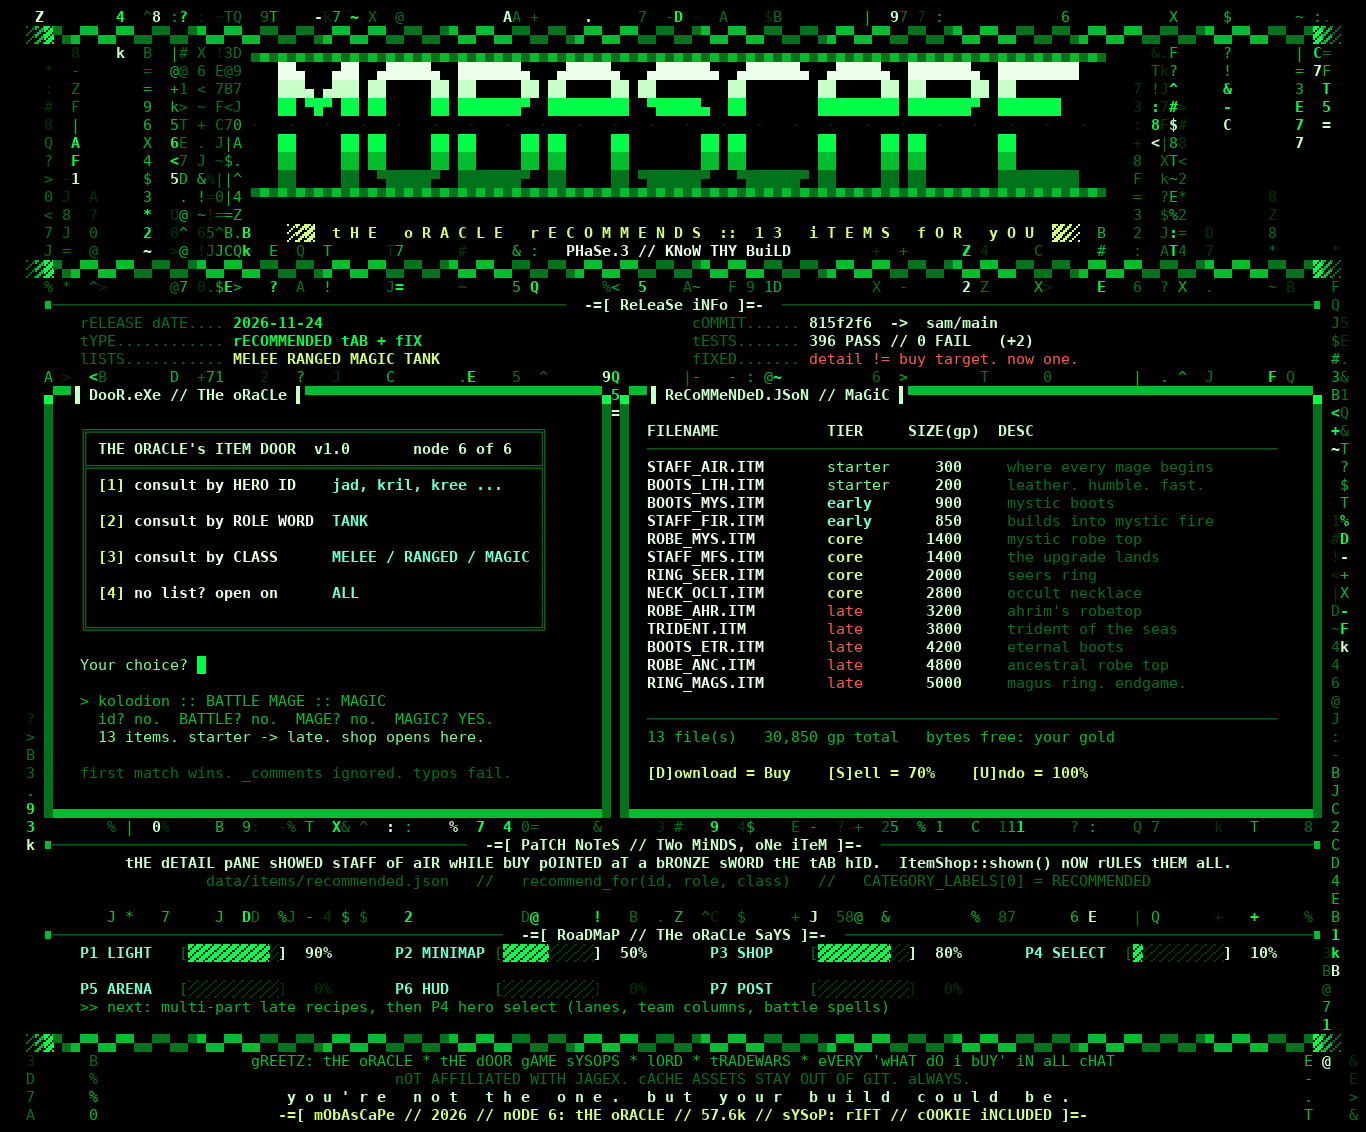
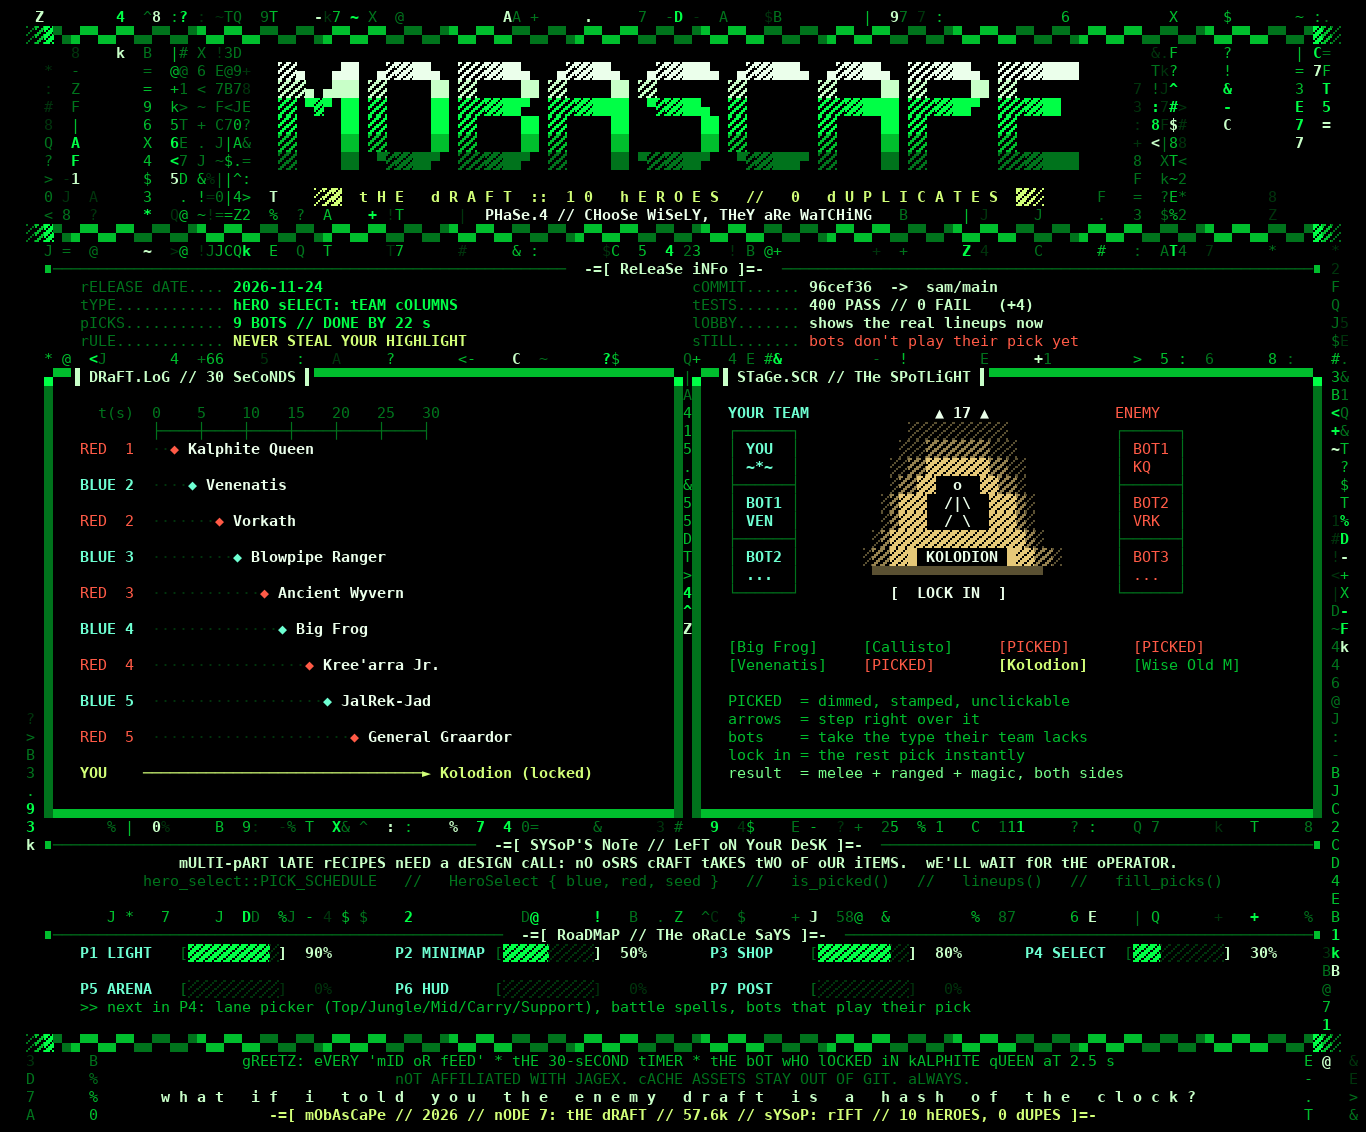
docs: progress matrix, draft edition

diff --git a/tools/matrix_bbs.py b/tools/matrix_bbs.py
@@ -147,114 +147,124 @@ def logo(y, word):
 
 
 # ============================================================================
-def stencil_logo(y, word):
-    """Stencil logo: letters cut by a horizontal gap at mid-height and
-    framed top and bottom with ▄▀ rails, like a BBS sysop's door banner."""
+def shaded_logo(y, word):
+    """Logo shaded left-to-right with the four block densities, the
+    classic ░▒▓█ ramp, so each letter fades in from the dark."""
     width = len(word) * 10 - 1
     x0 = (W - width) // 2
-    clear(x0 - 4, y - 2, x0 + width + 4, y + LOGO_ROWS + 2)
-    for x in range(x0 - 3, x0 + width + 3):
-        put(x, y - 1, "▄", DIM if x % 2 else MID)
-        put(x, y + LOGO_ROWS + 1, "▀", DIM if x % 2 else MID)
+    clear(x0 - 3, y - 1, x0 + width + 3, y + LOGO_ROWS)
+    ramp = "░▒▓█"
     for i, letter in enumerate(word):
         for r in range(LOGO_ROWS):
             for c, px in enumerate(LOGO[letter][r]):
                 if px == " ":
                     continue
-                row = r if r < 3 else r + 1
-                put(x0 + i * 10 + c, y + row, px, LOGO_GRAD[min(r, len(LOGO_GRAD) - 1)])
-    for x in range(x0 - 3, x0 + width + 3, 4):
-        put(x, y + 3, "·", FAINT)
+                ch = px if px in "▀▄" else ramp[min(3, c * 4 // 9 + 1)]
+                put(x0 + i * 10 + c, y + r, ch, LOGO_GRAD[r])
 
 
-stencil_logo(3, "MOBASCAPE")
+shaded_logo(3, "MOBASCAPE")
 fade_bar(1, 2, W - 3)
-center(12, "  ░▒▓  t H E   o R A C L E   r E C O M M E N D S  ::  1 3   i T E M S   f O R   y O U  ▓▒░  ", AMBER)
-center(13, "  " + elite("phase.3 // know thy build") + "  ", WHITE)
-fade_bar(14, 2, W - 3)
+center(10, "  ░▒▓  t H E   d R A F T  ::  1 0   h E R O E S   //   0   d U P L I C A T E S  ▓▒░  ", AMBER)
+center(11, "  " + elite("phase.4 // choose wisely, they are watching") + "  ", WHITE)
+fade_bar(12, 2, W - 3)
 
 # --- release info -------------------------------------------------------------
-header(16, elite("release info"))
-clear(4, 17, W - 5, 19)
+header(14, elite("release info"))
+clear(4, 15, W - 5, 18)
 info = [
-    ("rELEASE dATE", "2026-11-24", "cOMMIT", "815f2f6  ->  sam/main"),
-    ("tYPE", "rECOMMENDED tAB + fIX", "tESTS", "396 PASS // 0 FAIL   (+2)"),
-    ("lISTS", "MELEE RANGED MAGIC TANK", "fIXED", "detail != buy target. now one."),
+    ("rELEASE dATE", "2026-11-24", "cOMMIT", "96cef36  ->  sam/main"),
+    ("tYPE", "hERO sELECT: tEAM cOLUMNS", "tESTS", "400 PASS // 0 FAIL   (+4)"),
+    ("pICKS", "9 BOTS // DONE BY 22 s", "lOBBY", "shows the real lineups now"),
+    ("rULE", "NEVER STEAL YOUR HIGHLIGHT", "sTILL", "bots don't play their pick yet"),
 ]
 for i, (k1, v1, k2, v2) in enumerate(info):
-    y = 17 + i
+    y = 15 + i
     text(8, y, f"{k1:.<16}", DIM)
-    text(25, y, v1, AMBER if k1 == "lISTS" else BRIGHT)
+    text(25, y, v1, AMBER if k1 == "rULE" else BRIGHT)
     text(76, y, f"{k2:.<12}", DIM)
-    text(89, y, v2, RED if k2 == "fIXED" else HEAD)
+    text(89, y, v2, RED if k2 == "sTILL" else HEAD)
 
-# --- left: BBS door menu -------------------------------------------------------
-box(4, 21, 66, 44, elite("door.exe // the oracle"))
-text(8, 23, "╔══════════════════════════════════════════════════╗", DIM)
-text(8, 24, "║", DIM); text(10, 24, "THE ORACLE's ITEM DOOR  v1.0       node 6 of 6", HEAD); text(59, 24, "║", DIM)
-text(8, 25, "╠══════════════════════════════════════════════════╣", DIM)
-menu = [
-    ("[1]", "consult by HERO ID", "jad, kril, kree ..."),
-    ("[2]", "consult by ROLE WORD", "TANK"),
-    ("[3]", "consult by CLASS", "MELEE / RANGED / MAGIC"),
-    ("[4]", "no list? open on", "ALL"),
+# --- left: the draft timeline --------------------------------------------------
+box(4, 20, 74, 44, elite("draft.log // 30 seconds"))
+text(8, 22, "  t(s)  0    5    10   15   20   25   30", DIM)
+text(8, 23, "        ├────┼────┼────┼────┼────┼────┤", DIM)
+picks = [
+    ("RED  1", 2.5, "Kalphite Queen", RED),
+    ("BLUE 2", 4.5, "Venenatis", CYAN),
+    ("RED  2", 7.0, "Vorkath", RED),
+    ("BLUE 3", 9.5, "Blowpipe Ranger", CYAN),
+    ("RED  3", 12.0, "Ancient Wyvern", RED),
+    ("BLUE 4", 14.5, "Big Frog", CYAN),
+    ("RED  4", 17.0, "Kree'arra Jr.", RED),
+    ("BLUE 5", 19.5, "JalRek-Jad", CYAN),
+    ("RED  5", 22.0, "General Graardor", RED),
 ]
-for i, (k, what, eg) in enumerate(menu):
-    y = 26 + i * 2
-    text(8, y, "║", DIM); text(59, y, "║", DIM)
-    text(10, y, k, AMBER)
-    text(14, y, what, WHITE)
-    text(36, y, eg, CYAN)
-    text(8, y + 1, "║", DIM); text(59, y + 1, "║", DIM)
-text(8, 34, "╚══════════════════════════════════════════════════╝", DIM)
-text(8, 36, "Your choice? _", (120, 255, 140))
-put(21, 36, "█", BRIGHT)
-text(8, 38, "> kolodion :: BATTLE MAGE :: MAGIC", MID)
-text(8, 39, "  id? no.  BATTLE? no.  MAGE? no.  MAGIC? YES.", MID)
-text(8, 40, "  13 items. starter -> late. shop opens here.", (120, 255, 140))
-text(8, 42, "first match wins. _comments ignored. typos fail.", DIM)
+for i, (who, t, hero, col) in enumerate(picks):
+    y = 24 + i * 2
+    text(8, y, who, col)
+    x = 16 + int(t)
+    for k in range(16, x):
+        put(k, y, "·", FAINT)
+    put(x, y, "◆", col)
+    text(x + 2, y, hero, WHITE)
+text(8, 42, "YOU    ", AMBER)
+text(15, 42, "─" * 31 + "► Kolodion (locked)", AMBER)
 
-# --- right: the list as a file listing -----------------------------------------
-box(68, 21, W - 5, 44, elite("recommended.json // magic"))
-text(71, 23, "FILENAME            TIER     SIZE(gp)  DESC", HEAD)
-text(71, 24, "─" * 70, DIM)
-listing = [
-    ("STAFF_AIR.ITM", "starter", "300", "where every mage begins"),
-    ("BOOTS_LTH.ITM", "starter", "200", "leather. humble. fast."),
-    ("BOOTS_MYS.ITM", "early", "900", "mystic boots"),
-    ("STAFF_FIR.ITM", "early", "850", "builds into mystic fire"),
-    ("ROBE_MYS.ITM ", "core", "1400", "mystic robe top"),
-    ("STAFF_MFS.ITM", "core", "1400", "the upgrade lands"),
-    ("RING_SEER.ITM", "core", "2000", "seers ring"),
-    ("NECK_OCLT.ITM", "core", "2800", "occult necklace"),
-    ("ROBE_AHR.ITM ", "late", "3200", "ahrim's robetop"),
-    ("TRIDENT.ITM  ", "late", "3800", "trident of the seas"),
-    ("BOOTS_ETR.ITM", "late", "4200", "eternal boots"),
-    ("ROBE_ANC.ITM ", "late", "4800", "ancestral robe top"),
-    ("RING_MAGS.ITM", "late", "5000", "magus ring. endgame."),
+# --- right: the stage ---------------------------------------------------------
+box(76, 20, W - 5, 44, elite("stage.scr // the spotlight"))
+stage = [
+    " YOUR TEAM              ▲ 17 ▲              ENEMY ",
+    " ┌──────┐            ░░░░░░░░░░░            ┌──────┐",
+    " │ YOU  │           ░░░▒▒▒▒▒▒▒░░░           │ BOT1 │",
+    " │ ~*~  │          ░░▒▒▓▓▓▓▓▓▓▒▒░░          │ KQ   │",
+    " ├──────┤          ░▒▒▓▓  o  ▓▓▒▒░          ├──────┤",
+    " │ BOT1 │         ░▒▓▓▓  /|\\  ▓▓▓▒░         │ BOT2 │",
+    " │ VEN  │         ░▒▓▓▓  / \\  ▓▓▓▒░         │ VRK  │",
+    " ├──────┤        ░▒▓▓▓▓▓▓▓▓▓▓▓▓▓▓▓▒░        ├──────┤",
+    " │ BOT2 │       ░▒▒▓▓█ KOLODION █▓▓▒▒░      │ BOT3 │",
+    " │ ...  │        ▀▀▀▀▀▀▀▀▀▀▀▀▀▀▀▀▀▀▀        │ ...  │",
+    " └──────┘          [  LOCK IN  ]            └──────┘",
 ]
-tier_col = {"starter": (120, 255, 140), "early": CYAN, "core": AMBER, "late": RED}
-for i, (name, tier, size, desc) in enumerate(listing):
-    y = 25 + i
-    text(71, y, name, WHITE)
-    text(91, y, tier, tier_col[tier])
-    text(100, y, f"{size:>6}", HEAD)
-    text(111, y, desc, DIM)
-text(71, 39, "─" * 70, DIM)
-text(71, 40, "13 file(s)   30,850 gp total   bytes free: your gold", MID)
-text(71, 42, "[D]ownload = Buy    [S]ell = 70%    [U]ndo = 100%", AMBER)
+for i, line in enumerate(stage):
+    for j, ch in enumerate(line):
+        if ch == " ":
+            continue
+        if ch in "░▒▓█▀":
+            col = (230, 200, 120) if ch in "▓█" else (150, 130, 80) if ch == "▒" else (90, 80, 50)
+        elif ch in "┌┐└┘─│├┤":
+            col = DIM
+        elif j < 10:
+            col = CYAN
+        elif j > 40:
+            col = RED
+        else:
+            col = WHITE
+        put(79 + j, 22 + i, ch, col)
+roster = [
+    ("[Big Frog]", MID), ("[Callisto]", MID), ("[PICKED]", RED), ("[PICKED]", RED),
+    ("[Venenatis]", MID), ("[PICKED]", RED), ("[Kolodion]", AMBER), ("[Wise Old M]", MID),
+]
+x = 80
+for i, (name, col) in enumerate(roster):
+    text(80 + (i % 4) * 15, 35 + i // 4, name, col)
+text(80, 38, "PICKED  = dimmed, stamped, unclickable", MID)
+text(80, 39, "arrows  = step right over it", MID)
+text(80, 40, "bots    = take the type their team lacks", MID)
+text(80, 41, "lock in = the rest pick instantly", MID)
+text(80, 42, "result  = melee + ranged + magic, both sides", (120, 255, 140))
 
-# --- patch notes ---------------------------------------------------------------
-header(46, elite("patch notes // two minds, one item"))
+# --- design call --------------------------------------------------------------
+header(46, elite("sysop's note // left on your desk"))
 clear(4, 47, W - 5, 49)
-center(47, "tHE dETAIL pANE sHOWED sTAFF oF aIR wHILE bUY pOINTED aT a bRONZE sWORD tHE tAB hID.  ItemShop::shown() nOW rULES tHEM aLL.", HEAD)
-center(48, "data/items/recommended.json   //   recommend_for(id, role, class)   //   CATEGORY_LABELS[0] = RECOMMENDED", DIM)
+center(47, "mULTI-pART lATE rECIPES nEED a dESIGN cALL: nO oSRS cRAFT tAKES tWO oF oUR iTEMS.  wE'LL wAIT fOR tHE oPERATOR.", HEAD)
+center(48, "hero_select::PICK_SCHEDULE   //   HeroSelect { blue, red, seed }   //   is_picked()   //   lineups()   //   fill_picks()", DIM)
 
 # --- roadmap -------------------------------------------------------------------
 header(51, elite("roadmap // the oracle says"))
 clear(4, 52, W - 5, 56)
 phases = [
-    ("P1 LIGHT", 9), ("P2 MINIMAP", 5), ("P3 SHOP", 8), ("P4 SELECT", 1),
+    ("P1 LIGHT", 9), ("P2 MINIMAP", 5), ("P3 SHOP", 8), ("P4 SELECT", 3),
     ("P5 ARENA", 0), ("P6 HUD", 0), ("P7 POST", 0),
 ]
 for i, (name, done) in enumerate(phases):
@@ -265,14 +275,14 @@ for i, (name, done) in enumerate(phases):
     for j in range(10):
         put(x + 12 + j, y, "▓" if j < done else "░", BRIGHT if j < done else FAINT)
     text(x + 22, y, f"] {done * 10:>3}%", HEAD if done else FAINT)
-text(8, 55, ">> next: multi-part late recipes, then P4 hero select (lanes, team columns, battle spells)", MID)
+text(8, 55, ">> next in P4: lane picker (Top/Jungle/Mid/Carry/Support), battle spells, bots that play their pick", MID)
 
 fade_bar(57, 2, W - 3)
 clear(10, 58, W - 11, 61)
-center(58, "gREETZ: tHE oRACLE * tHE dOOR gAME sYSOPS * lORD * tRADEWARS * eVERY 'wHAT dO i bUY' iN aLL cHAT", MID)
+center(58, "gREETZ: eVERY 'mID oR fEED' * tHE 30-sECOND tIMER * tHE bOT wHO lOCKED iN kALPHITE qUEEN aT 2.5 s", MID)
 center(59, "nOT AFFILIATED WITH JAGEX. cACHE ASSETS STAY OUT OF GIT. aLWAYS.", DIM)
-center(60, "  y o u ' r e   n o t   t h e   o n e .   b u t   y o u r   b u i l d   c o u l d   b e .  ", HEAD)
-center(61, "-=[ mObAsCaPe // 2026 // nODE 6: tHE oRACLE // 57.6k // sYSoP: rIFT // cOOKIE iNCLUDED ]=-", AMBER)
+center(60, "  w h a t   i f   i   t o l d   y o u   t h e   e n e m y   d r a f t   i s   a   h a s h   o f   t h e   c l o c k ?  ", HEAD)
+center(61, "-=[ mObAsCaPe // 2026 // nODE 7: tHE dRAFT // 57.6k // sYSoP: rIFT // 10 hEROES, 0 dUPES ]=-", AMBER)
 
 # --- outputs ------------------------------------------------------------------
 with open(out + ".txt", "w") as f:
